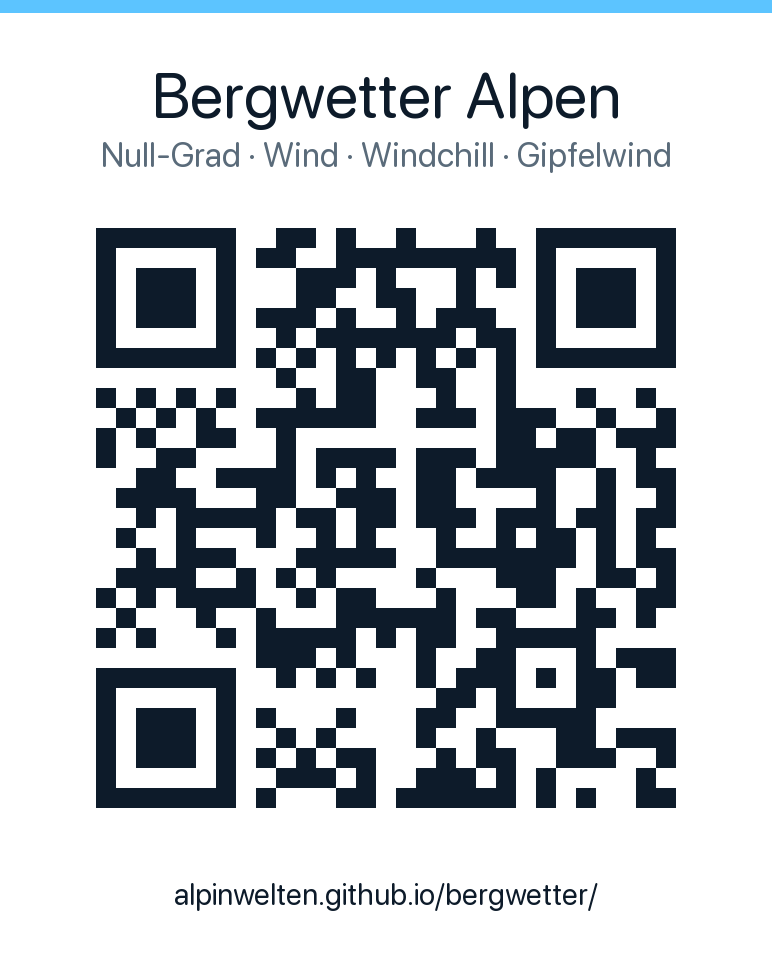
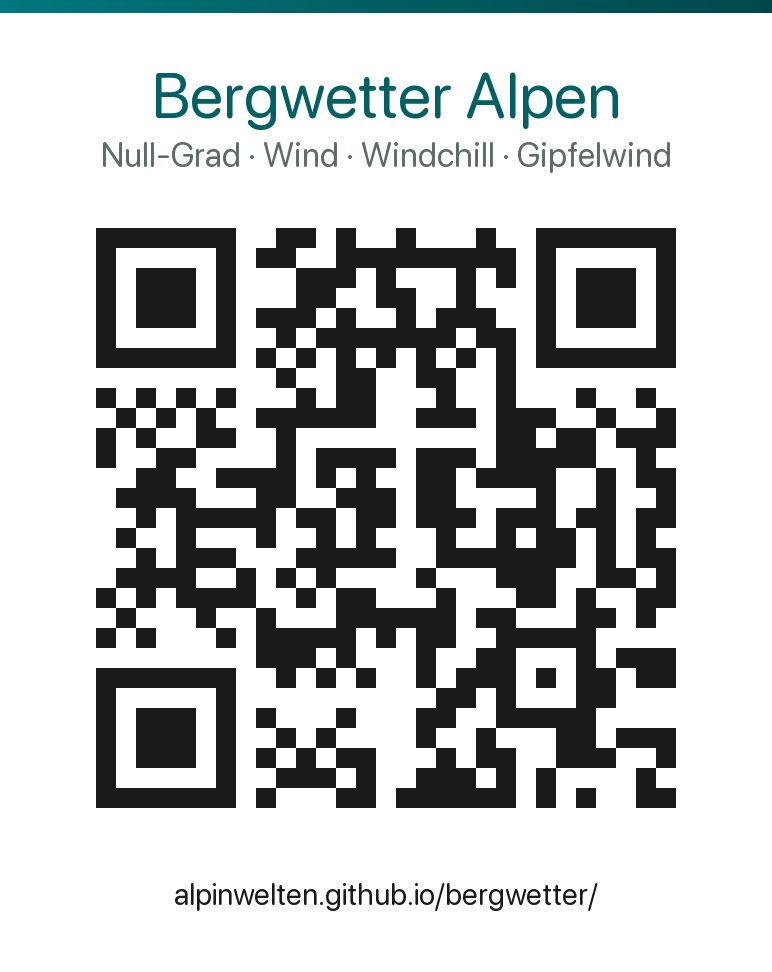
QR-Karte auf Klar·Teal: Hero-Verlaufsbalken + Brand-Titel statt Eisblau/Nachtblau (Muster: tourenzeit make-qr.py); URL unverändert

Changed region(s): [[0.0, 0.0, 1.0, 0.0309], [0.1865, 0.0617, 0.8083, 0.1543]]

diff --git a/tools/make-qr.py b/tools/make-qr.py
@@ -14,8 +14,10 @@ from PIL import Image, ImageDraw, ImageFont
 ROOT = Path(__file__).resolve().parent.parent
 URL = sys.argv[1] if len(sys.argv) > 1 else "https://alpinwelten.github.io/bergwetter/"
 
-INK = (13, 27, 42)       # Nachtblau (theme-color)
-ACCENT = (92, 196, 255)  # Eisblau (--ice)
+INK = (26, 26, 26)       # Klar·Teal --ink #1A1A1A (QR-Module + URL)
+BRAND = (0, 96, 100)     # Klar·Teal --brand #006064 (Titel)
+HERO = [(0, 120, 126), (0, 96, 100), (0, 71, 75)]  # Hero-Verlauf #00787E->#006064->#00474B
+MUTED = (94, 107, 107)   # Klar·Teal --meta #5E6B6B
 WHITE = (255, 255, 255)
 
 def make_qr(url, box=20, border=2):
@@ -63,11 +65,20 @@ card = Image.new("RGB", (W + 2 * pad, qr.height + top + bottom), WHITE)
 draw = ImageDraw.Draw(card)
 cx = card.width // 2
 
-# Akzent-Leiste oben
-draw.rectangle([0, 0, card.width, 12], fill=ACCENT)
+# Marken-Leiste oben: Hero-Verlauf
+for x in range(card.width):
+    t = x / max(1, card.width - 1)
+    if t < 0.45:
+        f = t / 0.45
+        c0, c1 = HERO[0], HERO[1]
+    else:
+        f = (t - 0.45) / 0.55
+        c0, c1 = HERO[1], HERO[2]
+    col = tuple(round(c0[i] + (c1[i] - c0[i]) * f) for i in range(3))
+    draw.rectangle([x, 0, x + 1, 12], fill=col)
 
-center_text(draw, cx, pad, "Bergwetter Alpen", title_f, INK)
-center_text(draw, cx, pad + 78, "Null-Grad · Wind · Windchill · Gipfelwind", sub_f, (90, 107, 122))
+center_text(draw, cx, pad, "Bergwetter Alpen", title_f, BRAND)
+center_text(draw, cx, pad + 78, "Null-Grad · Wind · Windchill · Gipfelwind", sub_f, MUTED)
 
 card.paste(qr, (pad, top))
 center_text(draw, cx, top + qr.height + 28,
